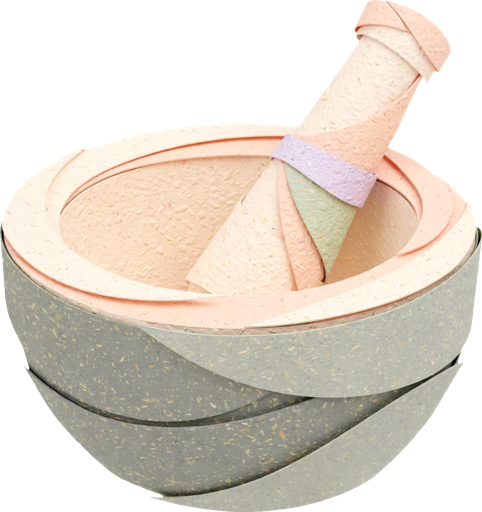
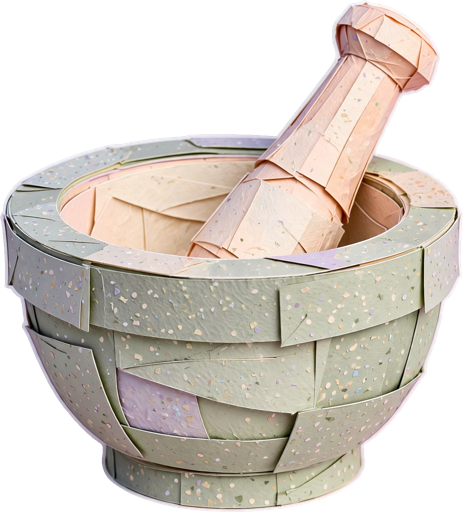
Per-slot sticker camera angles and tighter spots

diff --git a/scripts/build_stickers.py b/scripts/build_stickers.py
@@ -45,10 +45,24 @@ def size_class(card):
     return size
 
 
+VIEWS_BY_SLOT = {
+    "wall": "perfectly flat and front-on, parallel to the picture plane, no visible sides or depth "
+            "(at most a thin frame edge), like a print pinned flat to a wall",
+    "shelf": "front view at eye level, seen very slightly from above (about 15 degrees) so only a "
+             "sliver of the top shows; object square to the camera, not rotated",
+    "desk": "front view at eye level, seen very slightly from above (about 15 degrees) so only a "
+            "sliver of the top shows; object square to the camera, not rotated",
+    "floor": "front view at eye level, seen very slightly from above (about 15 degrees) so only a "
+             "sliver of the top shows; object square to the camera, not rotated",
+    "bed": "lying flat as if on a duvet, seen from slightly above",
+}
+
+
 def sticker_prompt(card, bigger=False):
     return json.dumps({
         "task": "draw ONLY this object, isolated, as a cut-paper piece in the same style as the reference room, "
-                "three-quarter view matching the room's camera, centred on a flat solid #00FF00 background, "
+                + VIEWS_BY_SLOT[card["slot"]] + ", object upright and level, not tilted, "
+                "centred on a flat solid #00FF00 background, "
                 "the whole object fully in frame with a wide green margin, no outline, no border, no sticker edge, "
                 "no shadow on the background, nothing else" + ("; clearly visible, a little larger" if bigger else ""),
         "visual_identity": identity(), "object": card["object"], "negative": NEGATIVE}, indent=1)
@@ -187,6 +201,8 @@ def composite_rooms(entries, cards_by_code, n=6):
             scale = min(mw / st.width, mh / st.height) * SCALE[e["size"]]
             st = st.resize((max(1, int(st.width * scale)), max(1, int(st.height * scale))))
             ax, ay = spot["anchor"]
+            if e["slot"] == "wall":
+                st = st.rotate(rng.uniform(-2, 2), expand=True, resample=Image.BICUBIC)
             x, y = ax - st.width // 2, ay - st.height
             _shadow(canvas, st, x, y, wall=e["slot"] == "wall")
             canvas.paste(st, (x, y), st)
